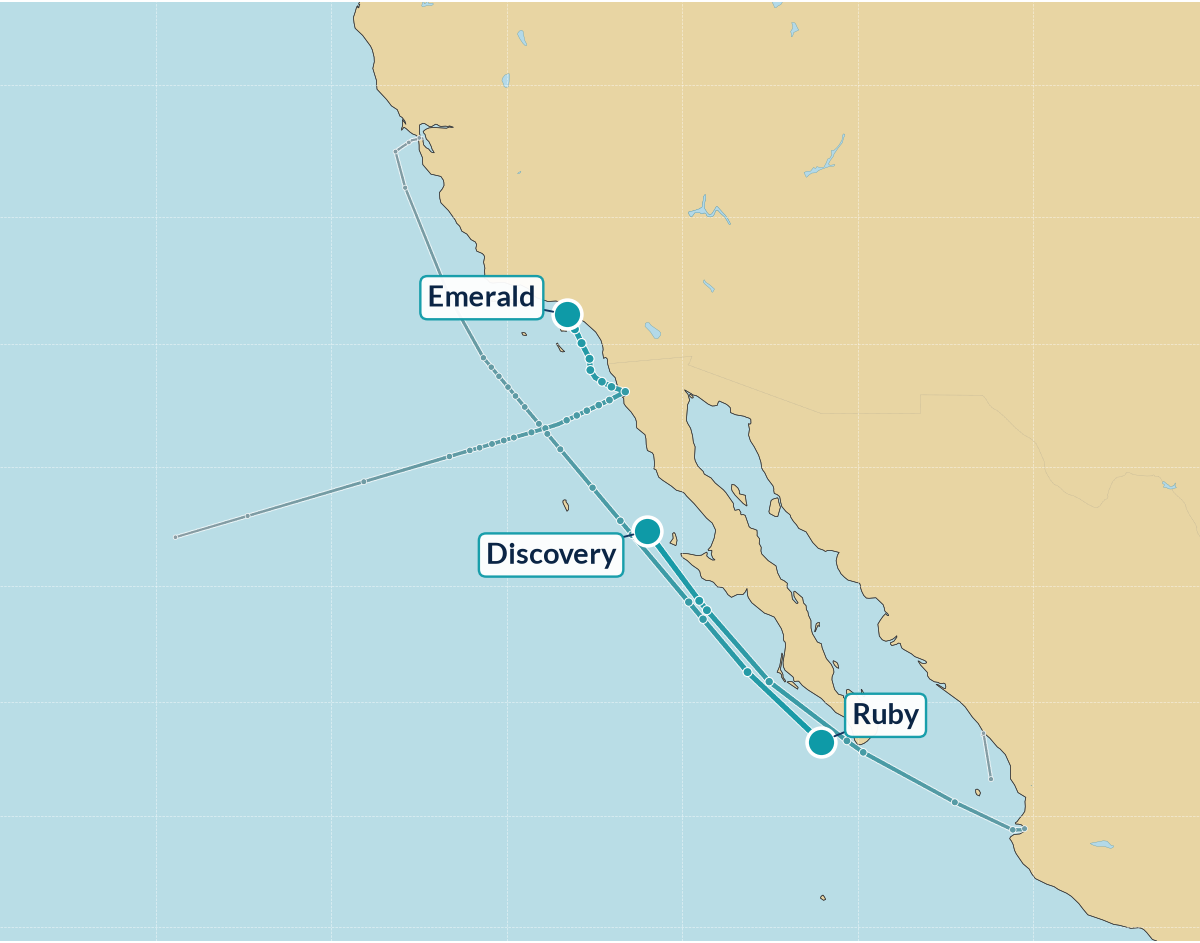
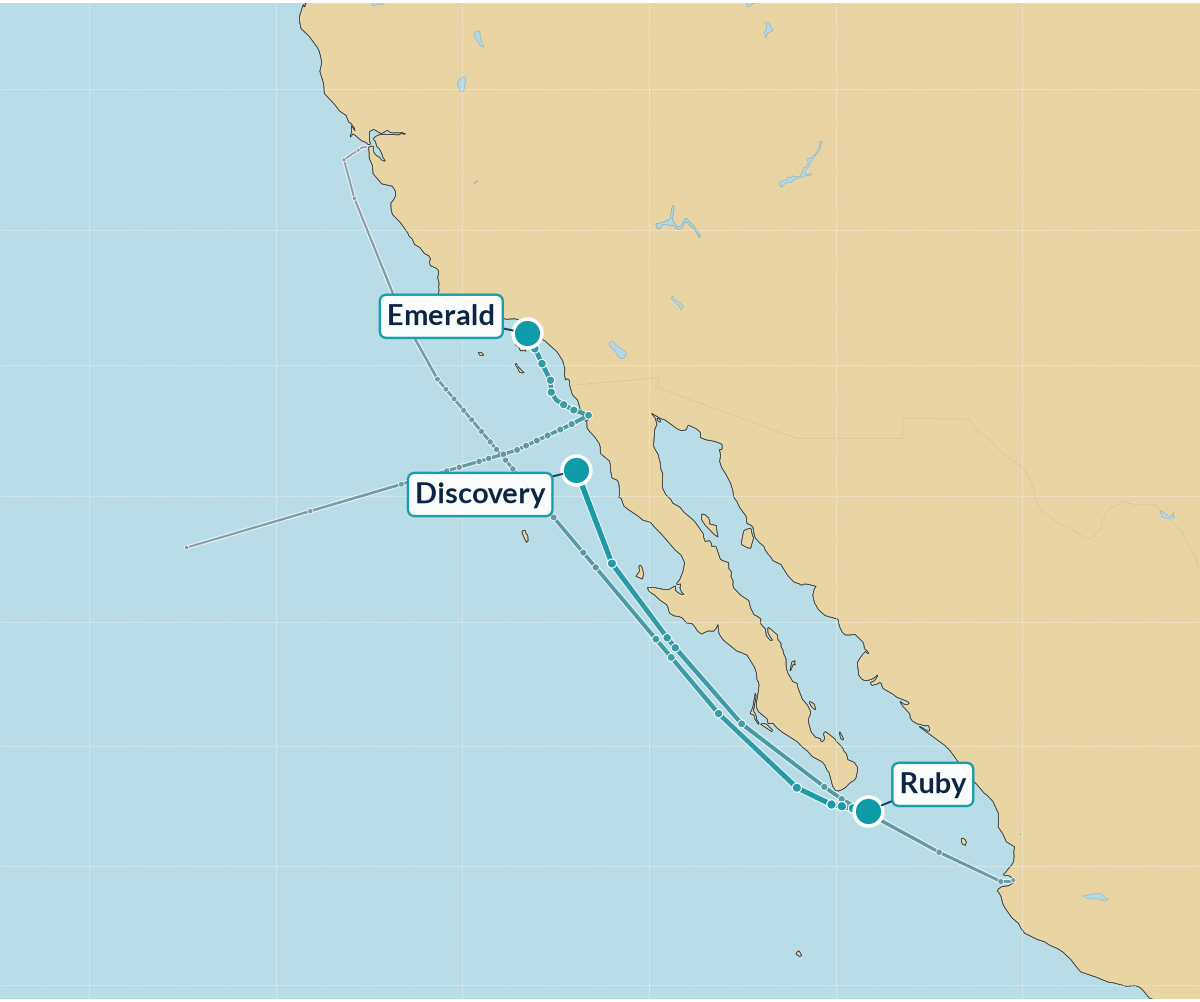
Update 10/16 17:01 PT

diff --git a/index.html b/index.html
@@ -1,47 +1,47 @@
 <!DOCTYPE html><html lang="en"><head><meta charset="utf-8"><meta name="viewport" content="width=device-width, initial-scale=1"><meta http-equiv="refresh" content="1800"><meta name="description" content="Live Princess Cruises fleet tracker"><title>Princess Patter — Friday, October 16, 2026</title></head>
 <body style="margin:0;padding:0;background-color:#dee2e8;">
-<div style="display:none;max-height:0;overflow:hidden;opacity:0;color:#dee2e8;font-size:1px;line-height:1px;">Friday, October 16, 2026 — 8:00am PT | 17 ships | 10 at sea, 7 in port</div>
+<div style="display:none;max-height:0;overflow:hidden;opacity:0;color:#dee2e8;font-size:1px;line-height:1px;">Friday, October 16, 2026 — 4:00pm PT | 17 ships | 14 at sea, 3 in port</div>
 <table role="presentation" width="100%" cellpadding="0" cellspacing="0" border="0" bgcolor="#dee2e8" style="background-color:#dee2e8;border-collapse:collapse;"><tr><td align="center" style="padding:16px 8px;">
 <table role="presentation" width="100%" cellpadding="0" cellspacing="0" border="0" bgcolor="#fdfdfb" style="width:100%;max-width:900px;background-color:#fdfdfb;border-collapse:collapse;border:1px solid #d6dae0;">
 <tr><td bgcolor="#1d3a6b" align="left" style="background-color:#1d3a6b;padding:24px 28px 24px 28px;"><div style="font-family:Georgia, 'Times New Roman', Times, serif;font-size:40px;line-height:46px;color:#ffffff;letter-spacing:0.5px;"><span style="color:#a8b6e2;">≋</span>&nbsp;Princess Patter</div></td></tr>
-<tr><td style="padding:0;"><table role="presentation" width="100%" cellpadding="0" cellspacing="0" border="0" style="border-collapse:collapse;"><tr><td height="5" bgcolor="#6a5aa8" style="background-color:#6a5aa8;height:5px;font-size:0;line-height:0;width:60%;">&nbsp;</td><td height="5" bgcolor="#2f6db5" style="background-color:#2f6db5;height:5px;font-size:0;line-height:0;width:40%;">&nbsp;</td></tr></table></td></tr><tr><td bgcolor="#1d3a6b" style="background:linear-gradient(#1d3a6b,#2f6db5);padding:10px 16px 14px;text-align:center;"><img src="regal.png?v=202610161601" alt="Regal Princess" style="width:100%;max-width:640px;height:auto;display:block;margin:0 auto;"></td></tr>
+<tr><td style="padding:0;"><table role="presentation" width="100%" cellpadding="0" cellspacing="0" border="0" style="border-collapse:collapse;"><tr><td height="5" bgcolor="#6a5aa8" style="background-color:#6a5aa8;height:5px;font-size:0;line-height:0;width:60%;">&nbsp;</td><td height="5" bgcolor="#2f6db5" style="background-color:#2f6db5;height:5px;font-size:0;line-height:0;width:40%;">&nbsp;</td></tr></table></td></tr><tr><td bgcolor="#1d3a6b" style="background:linear-gradient(#1d3a6b,#2f6db5);padding:10px 16px 14px;text-align:center;"><img src="regal.png?v=202610161701" alt="Regal Princess" style="width:100%;max-width:640px;height:auto;display:block;margin:0 auto;"></td></tr>
 <tr><td style="padding:22px 20px 6px 20px;">
-<div style="font-family:Georgia, 'Times New Roman', Times, serif;font-style:italic;font-size:20px;line-height:26px;color:#2f6db5;">Good morning!</div>
+<div style="font-family:Georgia, 'Times New Roman', Times, serif;font-style:italic;font-size:20px;line-height:26px;color:#2f6db5;">Good afternoon!</div>
 <div style="font-family:Georgia, 'Times New Roman', Times, serif;font-weight:bold;font-size:26px;line-height:32px;color:#1d3a6b;padding-top:6px;">Friday, October 16, 2026</div>
-<div style="font-family:Helvetica, Arial, sans-serif;font-size:16px;line-height:22px;color:#2f6db5;padding-top:4px;">8:00am PT | 17 ships | 10 at sea, 7 in port</div>
-</td></tr><tr><td style="padding:14px 20px 0 20px;"><div style="font-family:Georgia, 'Times New Roman', Times, serif;font-style:italic;font-weight:bold;font-size:18px;color:#295aa0;padding:0 4px 4px;border-bottom:1px solid #295aa0;">pacific map</div><a href="map.png?v=202610161601"><img src="map.png?v=202610161601" alt="Pacific fleet map" style="width:100%;height:auto;display:block;margin-top:8px;border-radius:12px;border:2px solid #c8dee2;"></a></td></tr>
+<div style="font-family:Helvetica, Arial, sans-serif;font-size:16px;line-height:22px;color:#2f6db5;padding-top:4px;">4:00pm PT | 17 ships | 14 at sea, 3 in port</div>
+</td></tr><tr><td style="padding:14px 20px 0 20px;"><div style="font-family:Georgia, 'Times New Roman', Times, serif;font-style:italic;font-weight:bold;font-size:18px;color:#295aa0;padding:0 4px 4px;border-bottom:1px solid #295aa0;">pacific map</div><a href="map.png?v=202610161701"><img src="map.png?v=202610161701" alt="Pacific fleet map" style="width:100%;height:auto;display:block;margin-top:8px;border-radius:12px;border:2px solid #c8dee2;"></a></td></tr>
 <tr><td style="padding:14px 20px 4px 20px;">
 <table role="presentation" width="100%" cellpadding="0" cellspacing="0" border="0" style="border-collapse:collapse;width:100%;font-family:Helvetica, Arial, sans-serif;font-size:15px;line-height:20px;color:#262c38;">
 <tr bgcolor="#2f6db5" style="background-color:#2f6db5;"><td style="font-size:14px;line-height:18px;font-weight:bold;color:#ffffff;text-align:left;padding:9px 8px;padding-left:10px;" colspan="2">Ship</td><td style="font-size:14px;line-height:18px;font-weight:bold;color:#ffffff;text-align:left;padding:9px 8px;">Where</td><td style="font-size:14px;line-height:18px;font-weight:bold;color:#ffffff;text-align:left;padding:9px 8px;">Next Port</td></tr>
 <tr><td colspan="4" style="padding:14px 4px 4px 4px;border-bottom:1px solid #295aa0;font-family:Georgia, 'Times New Roman', Times, serif;font-style:italic;font-weight:bold;font-size:18px;line-height:22px;color:#295aa0;">canada &amp; new england</td></tr>
-<tr bgcolor="#eef0f3" style="background-color:#eef0f3;"><td width="18" style="padding:7px 0 7px 8px;vertical-align:top;width:18px;color:#1a9a9a;font-size:18px;">&nbsp;</td><td style="padding:7px 8px;vertical-align:top;"><b style="color:#1d3a6b;">Majestic</b></td><td style="padding:7px 8px;vertical-align:top;">At Sea <span style="white-space:nowrap;font-size:12px;color:#707884;" title="Forecast high/low">☁&thinsp;63°</span> <span style="font-size:12px;color:#707884;"><span style="white-space:nowrap;">🌊 7 ft</span> &middot; <span style="white-space:nowrap;">💨 SSW 23 kt</span> &middot; <span style="white-space:nowrap;">🚢 16.1 kn</span></span></td><td style="padding:7px 8px;vertical-align:top;">New York <span style="white-space:nowrap;font-size:12px;color:#707884;" title="Forecast high/low">☁&thinsp;60°/36°</span> <span style="font-size:13px;color:#707884;">(10/17 4am)</span></td></tr>
-<tr bgcolor="#ffffff" style="background-color:#ffffff;"><td width="18" style="padding:7px 0 7px 8px;vertical-align:top;width:18px;color:#1a9a9a;font-size:18px;">&nbsp;</td><td style="padding:7px 8px;vertical-align:top;"><b style="color:#1d3a6b;">Sapphire</b></td><td style="padding:7px 8px;vertical-align:top;">At Sea <span style="white-space:nowrap;font-size:12px;color:#707884;" title="Forecast high/low">🌫&thinsp;57°</span> <span style="font-size:12px;color:#707884;"><span style="white-space:nowrap;">🌊 7 ft</span> &middot; <span style="white-space:nowrap;">💨 SW 23 kt</span> &middot; <span style="white-space:nowrap;">🚢 10.2 kn</span></span></td><td style="padding:7px 8px;vertical-align:top;">Halifax <span style="white-space:nowrap;font-size:12px;color:#707884;" title="Forecast high/low">🌦&thinsp;61°/36°</span> <span style="font-size:13px;color:#707884;">(10/17 3am)</span></td></tr>
+<tr bgcolor="#eef0f3" style="background-color:#eef0f3;"><td width="18" style="padding:7px 0 7px 8px;vertical-align:top;width:18px;color:#1a9a9a;font-size:18px;">&nbsp;</td><td style="padding:7px 8px;vertical-align:top;"><b style="color:#1d3a6b;">Majestic</b></td><td style="padding:7px 8px;vertical-align:top;">At Sea <span style="white-space:nowrap;font-size:12px;color:#707884;" title="Forecast high/low">☁&thinsp;67°</span> <span style="font-size:12px;color:#707884;"><span style="white-space:nowrap;">🌊 6 ft</span> &middot; <span style="white-space:nowrap;">💨 SW 22 kt</span> &middot; <span style="white-space:nowrap;">🚢 15.6 kn</span></span></td><td style="padding:7px 8px;vertical-align:top;">New York <span style="white-space:nowrap;font-size:12px;color:#707884;" title="Forecast high/low">☁&thinsp;60°/36°</span> <span style="font-size:13px;color:#707884;">(10/17 4am)</span></td></tr>
+<tr bgcolor="#ffffff" style="background-color:#ffffff;"><td width="18" style="padding:7px 0 7px 8px;vertical-align:top;width:18px;color:#1a9a9a;font-size:18px;">&nbsp;</td><td style="padding:7px 8px;vertical-align:top;"><b style="color:#1d3a6b;">Sapphire</b></td><td style="padding:7px 8px;vertical-align:top;">At Sea <span style="white-space:nowrap;font-size:12px;color:#707884;" title="Forecast high/low">🌧&thinsp;58°</span> <span style="font-size:12px;color:#707884;"><span style="white-space:nowrap;">🌊 6 ft</span> &middot; <span style="white-space:nowrap;">💨 SSW 27 kt</span> &middot; <span style="white-space:nowrap;">🚢 10.2 kn</span></span></td><td style="padding:7px 8px;vertical-align:top;">Halifax <span style="white-space:nowrap;font-size:12px;color:#707884;" title="Forecast high/low">🌦&thinsp;61°/36°</span> <span style="font-size:13px;color:#707884;">(10/17 3am)</span></td></tr>
 <tr><td colspan="4" style="padding:14px 4px 4px 4px;border-bottom:1px solid #295aa0;font-family:Georgia, 'Times New Roman', Times, serif;font-style:italic;font-weight:bold;font-size:18px;line-height:22px;color:#295aa0;">caribbean</td></tr>
-<tr bgcolor="#eef0f3" style="background-color:#eef0f3;"><td width="18" style="padding:7px 0 7px 8px;vertical-align:top;width:18px;color:#1a9a9a;font-size:18px;">&nbsp;</td><td style="padding:7px 8px;vertical-align:top;"><b style="color:#1d3a6b;">Caribbean</b></td><td style="padding:7px 8px;vertical-align:top;">Grand Turk <span style="white-space:nowrap;font-size:12px;color:#707884;" title="Forecast high/low">🌙&thinsp;85°</span> <span style="font-size:13px;color:#707884;">(1pm)</span></td><td style="padding:7px 8px;vertical-align:top;">Port Canaveral <span style="white-space:nowrap;font-size:12px;color:#707884;" title="Forecast high/low">🌦&thinsp;79°/70°</span> <span style="font-size:13px;color:#707884;">(10/18 4am)</span></td></tr>
-<tr bgcolor="#ffffff" style="background-color:#ffffff;"><td width="18" style="padding:7px 0 7px 8px;vertical-align:top;width:18px;color:#1a9a9a;font-size:18px;">&nbsp;</td><td style="padding:7px 8px;vertical-align:top;"><b style="color:#1d3a6b;">Coral</b></td><td style="padding:7px 8px;vertical-align:top;">At Sea <span style="white-space:nowrap;font-size:12px;color:#707884;" title="Forecast high/low">🌙&thinsp;85°</span> <span style="font-size:12px;color:#707884;"><span style="white-space:nowrap;">🌊 4 ft</span> &middot; <span style="white-space:nowrap;">💨 SE 11 kt</span> &middot; <span style="white-space:nowrap;">🚢 16.7 kn</span></span></td><td style="padding:7px 8px;vertical-align:top;">Philipsburg <span style="white-space:nowrap;font-size:12px;color:#707884;" title="Forecast high/low">🌦&thinsp;84°/83°</span> <span style="font-size:13px;color:#707884;">(10/18 6am)</span></td></tr>
-<tr bgcolor="#eef0f3" style="background-color:#eef0f3;"><td width="18" style="padding:7px 0 7px 8px;vertical-align:top;width:18px;color:#1a9a9a;font-size:18px;">&nbsp;</td><td style="padding:7px 8px;vertical-align:top;"><b style="color:#1d3a6b;">Regal</b></td><td style="padding:7px 8px;vertical-align:top;">Nassau <span style="white-space:nowrap;font-size:12px;color:#707884;" title="Forecast high/low">🌙&thinsp;83°</span> <span style="font-size:13px;color:#707884;">(1pm)</span></td><td style="padding:7px 8px;vertical-align:top;">Fort Lauderdale <span style="white-space:nowrap;font-size:12px;color:#707884;" title="Forecast high/low">🌧&thinsp;88°/71°</span> <span style="font-size:13px;color:#707884;">(10/17 3am)</span></td></tr>
-<tr bgcolor="#ffffff" style="background-color:#ffffff;"><td width="18" style="padding:7px 0 7px 8px;vertical-align:top;width:18px;color:#1a9a9a;font-size:18px;">&nbsp;</td><td style="padding:7px 8px;vertical-align:top;"><b style="color:#1d3a6b;">Star</b></td><td style="padding:7px 8px;vertical-align:top;">At Sea <span style="white-space:nowrap;font-size:12px;color:#707884;" title="Forecast high/low">🌙&thinsp;84°</span> <span style="font-size:12px;color:#707884;"><span style="white-space:nowrap;">🌊 6 ft</span> &middot; <span style="white-space:nowrap;">💨 NE 19 kt</span> &middot; <span style="white-space:nowrap;">🚢 17.9 kn</span></span></td><td style="padding:7px 8px;vertical-align:top;">Oranjestad <span style="white-space:nowrap;font-size:12px;color:#707884;" title="Forecast high/low">🌦&thinsp;90°/82°</span> <span style="font-size:13px;color:#707884;">(10/17 4am)</span></td></tr>
+<tr bgcolor="#eef0f3" style="background-color:#eef0f3;"><td width="18" style="padding:7px 0 7px 8px;vertical-align:top;width:18px;color:#1a9a9a;font-size:18px;">&nbsp;</td><td style="padding:7px 8px;vertical-align:top;"><b style="color:#1d3a6b;">Caribbean</b></td><td style="padding:7px 8px;vertical-align:top;">At Sea <span style="white-space:nowrap;font-size:12px;color:#707884;" title="Forecast high/low">🌙&thinsp;85°</span> <span style="font-size:12px;color:#707884;"><span style="white-space:nowrap;">🌊 3 ft</span> &middot; <span style="white-space:nowrap;">💨 E 14 kt</span></span></td><td style="padding:7px 8px;vertical-align:top;">Port Canaveral <span style="white-space:nowrap;font-size:12px;color:#707884;" title="Forecast high/low">🌦&thinsp;79°/70°</span> <span style="font-size:13px;color:#707884;">(10/18 4am)</span></td></tr>
+<tr bgcolor="#ffffff" style="background-color:#ffffff;"><td width="18" style="padding:7px 0 7px 8px;vertical-align:top;width:18px;color:#1a9a9a;font-size:18px;">&nbsp;</td><td style="padding:7px 8px;vertical-align:top;"><b style="color:#1d3a6b;">Coral</b></td><td style="padding:7px 8px;vertical-align:top;">At Sea <span style="white-space:nowrap;font-size:12px;color:#707884;" title="Forecast high/low">🌙&thinsp;85°</span> <span style="font-size:12px;color:#707884;"><span style="white-space:nowrap;">🌊 4 ft</span> &middot; <span style="white-space:nowrap;">💨 ESE 11 kt</span> &middot; <span style="white-space:nowrap;">🚢 16.8 kn</span></span></td><td style="padding:7px 8px;vertical-align:top;">Philipsburg <span style="white-space:nowrap;font-size:12px;color:#707884;" title="Forecast high/low">🌦&thinsp;84°/83°</span> <span style="font-size:13px;color:#707884;">(10/18 6am)</span></td></tr>
+<tr bgcolor="#eef0f3" style="background-color:#eef0f3;"><td width="18" style="padding:7px 0 7px 8px;vertical-align:top;width:18px;color:#1a9a9a;font-size:18px;">&nbsp;</td><td style="padding:7px 8px;vertical-align:top;"><b style="color:#1d3a6b;">Regal</b></td><td style="padding:7px 8px;vertical-align:top;">At Sea <span style="white-space:nowrap;font-size:12px;color:#707884;" title="Forecast high/low">🌙&thinsp;85°</span> <span style="font-size:12px;color:#707884;"><span style="white-space:nowrap;">🌊 2 ft</span> &middot; <span style="white-space:nowrap;">💨 ENE 8 kt</span> &middot; <span style="white-space:nowrap;">🚢 14.4 kn</span></span></td><td style="padding:7px 8px;vertical-align:top;">Fort Lauderdale <span style="white-space:nowrap;font-size:12px;color:#707884;" title="Forecast high/low">🌧&thinsp;88°/71°</span> <span style="font-size:13px;color:#707884;">(10/17 3am)</span></td></tr>
+<tr bgcolor="#ffffff" style="background-color:#ffffff;"><td width="18" style="padding:7px 0 7px 8px;vertical-align:top;width:18px;color:#1a9a9a;font-size:18px;">&nbsp;</td><td style="padding:7px 8px;vertical-align:top;"><b style="color:#1d3a6b;">Star</b></td><td style="padding:7px 8px;vertical-align:top;">At Sea <span style="white-space:nowrap;font-size:12px;color:#707884;" title="Forecast high/low">☁&thinsp;84°</span> <span style="font-size:12px;color:#707884;"><span style="white-space:nowrap;">🌊 6 ft</span> &middot; <span style="white-space:nowrap;">💨 ENE 20 kt</span> &middot; <span style="white-space:nowrap;">🚢 17.4 kn</span></span></td><td style="padding:7px 8px;vertical-align:top;">Oranjestad <span style="white-space:nowrap;font-size:12px;color:#707884;" title="Forecast high/low">🌦&thinsp;90°/82°</span> <span style="font-size:13px;color:#707884;">(10/17 4am)</span></td></tr>
 <tr><td colspan="4" style="padding:14px 4px 4px 4px;border-bottom:1px solid #295aa0;font-family:Georgia, 'Times New Roman', Times, serif;font-style:italic;font-weight:bold;font-size:18px;line-height:22px;color:#295aa0;">hawaii</td></tr>
 <tr bgcolor="#eef0f3" style="background-color:#eef0f3;"><td width="18" style="padding:7px 0 7px 8px;vertical-align:top;width:18px;color:#1a9a9a;font-size:18px;">&nbsp;</td><td style="padding:7px 8px;vertical-align:top;"><b style="color:#1d3a6b;">Emerald</b></td><td style="padding:7px 8px;vertical-align:top;">Los Angeles <span style="white-space:nowrap;font-size:12px;color:#707884;" title="Forecast high/low">☀&thinsp;96°</span> <span style="font-size:13px;color:#707884;">(5pm)</span></td><td style="padding:7px 8px;vertical-align:top;">Hilo <span style="white-space:nowrap;font-size:12px;color:#707884;" title="Forecast high/low">🌦&thinsp;79°/63°</span> <span style="font-size:13px;color:#707884;">(10/22 11am)</span></td></tr>
 <tr><td colspan="4" style="padding:14px 4px 4px 4px;border-bottom:1px solid #295aa0;font-family:Georgia, 'Times New Roman', Times, serif;font-style:italic;font-weight:bold;font-size:18px;line-height:22px;color:#295aa0;">mexican riviera</td></tr>
-<tr bgcolor="#eef0f3" style="background-color:#eef0f3;"><td width="18" style="padding:7px 0 7px 8px;vertical-align:top;width:18px;color:#1a9a9a;font-size:18px;">&nbsp;</td><td style="padding:7px 8px;vertical-align:top;"><b style="color:#1d3a6b;">Discovery</b></td><td style="padding:7px 8px;vertical-align:top;">At Sea <span style="white-space:nowrap;font-size:12px;color:#707884;" title="Forecast high/low">☀&thinsp;76°</span> <span style="font-size:12px;color:#707884;"><span style="white-space:nowrap;">🌊 5 ft</span> &middot; <span style="white-space:nowrap;">💨 NNW 8 kt</span> &middot; <span style="white-space:nowrap;">🚢 17.3 kn</span></span></td><td style="padding:7px 8px;vertical-align:top;">Los Angeles <span style="white-space:nowrap;font-size:12px;color:#707884;" title="Forecast high/low">☁&thinsp;94°/68°</span> <span style="font-size:13px;color:#707884;">(10/17 6:15am)</span></td></tr>
-<tr bgcolor="#ffffff" style="background-color:#ffffff;"><td width="18" style="padding:7px 0 7px 8px;vertical-align:top;width:18px;color:#1a9a9a;font-size:18px;">&nbsp;</td><td style="padding:7px 8px;vertical-align:top;"><b style="color:#1d3a6b;">Ruby</b></td><td style="padding:7px 8px;vertical-align:top;">At Sea <span style="white-space:nowrap;font-size:12px;color:#707884;" title="Forecast high/low">⛅&thinsp;84°</span> <span style="font-size:12px;color:#707884;"><span style="white-space:nowrap;">🌊 5 ft</span> &middot; <span style="white-space:nowrap;">💨 SW 2 kt</span> &middot; <span style="white-space:nowrap;">🚢 17.9 kn</span></span></td><td style="padding:7px 8px;vertical-align:top;">Puerto Vallarta <span style="white-space:nowrap;font-size:12px;color:#707884;" title="Forecast high/low">🌦&thinsp;89°/78°</span> <span style="font-size:13px;color:#707884;">(10/17 7am)</span></td></tr>
+<tr bgcolor="#eef0f3" style="background-color:#eef0f3;"><td width="18" style="padding:7px 0 7px 8px;vertical-align:top;width:18px;color:#1a9a9a;font-size:18px;">&nbsp;</td><td style="padding:7px 8px;vertical-align:top;"><b style="color:#1d3a6b;">Discovery</b></td><td style="padding:7px 8px;vertical-align:top;">At Sea <span style="white-space:nowrap;font-size:12px;color:#707884;" title="Forecast high/low">☀&thinsp;73°</span> <span style="font-size:12px;color:#707884;"><span style="white-space:nowrap;">🌊 4 ft</span> &middot; <span style="white-space:nowrap;">💨 WNW 5 kt</span> &middot; <span style="white-space:nowrap;">🚢 15.9 kn</span></span></td><td style="padding:7px 8px;vertical-align:top;">Los Angeles <span style="white-space:nowrap;font-size:12px;color:#707884;" title="Forecast high/low">☁&thinsp;94°/68°</span> <span style="font-size:13px;color:#707884;">(10/17 6:15am)</span></td></tr>
+<tr bgcolor="#ffffff" style="background-color:#ffffff;"><td width="18" style="padding:7px 0 7px 8px;vertical-align:top;width:18px;color:#1a9a9a;font-size:18px;">&nbsp;</td><td style="padding:7px 8px;vertical-align:top;"><b style="color:#1d3a6b;">Ruby</b></td><td style="padding:7px 8px;vertical-align:top;">At Sea <span style="white-space:nowrap;font-size:12px;color:#707884;" title="Forecast high/low">☁&thinsp;84°</span> <span style="font-size:12px;color:#707884;"><span style="white-space:nowrap;">🌊 6 ft</span> &middot; <span style="white-space:nowrap;">💨 S 8 kt</span> &middot; <span style="white-space:nowrap;">🚢 17.0 kn</span></span></td><td style="padding:7px 8px;vertical-align:top;">Puerto Vallarta <span style="white-space:nowrap;font-size:12px;color:#707884;" title="Forecast high/low">🌦&thinsp;89°/78°</span> <span style="font-size:13px;color:#707884;">(10/17 7am)</span></td></tr>
 <tr><td colspan="4" style="padding:14px 4px 4px 4px;border-bottom:1px solid #295aa0;font-family:Georgia, 'Times New Roman', Times, serif;font-style:italic;font-weight:bold;font-size:18px;line-height:22px;color:#295aa0;">asia</td></tr>
-<tr bgcolor="#eef0f3" style="background-color:#eef0f3;"><td width="18" style="padding:7px 0 7px 8px;vertical-align:top;width:18px;color:#1a9a9a;font-size:18px;">&nbsp;</td><td style="padding:7px 8px;vertical-align:top;"><b style="color:#1d3a6b;">Diamond</b></td><td style="padding:7px 8px;vertical-align:top;">At Sea <span style="white-space:nowrap;font-size:12px;color:#707884;" title="Forecast high/low">☀&thinsp;73°</span> <span style="font-size:12px;color:#707884;"><span style="white-space:nowrap;">🌊 3 ft</span> &middot; <span style="white-space:nowrap;">💨 ENE 20 kt</span> &middot; <span style="white-space:nowrap;">🚢 11.8 kn</span></span></td><td style="padding:7px 8px;vertical-align:top;">Nagasaki <span style="white-space:nowrap;font-size:12px;color:#707884;" title="Forecast high/low">☀&thinsp;81°/66°</span> <span style="font-size:13px;color:#707884;">(3pm)</span></td></tr>
+<tr bgcolor="#eef0f3" style="background-color:#eef0f3;"><td width="18" style="padding:7px 0 7px 8px;vertical-align:top;width:18px;color:#1a9a9a;font-size:18px;">&nbsp;</td><td style="padding:7px 8px;vertical-align:top;"><b style="color:#1d3a6b;">Diamond</b></td><td style="padding:7px 8px;vertical-align:top;">Nagasaki <span style="white-space:nowrap;font-size:12px;color:#707884;" title="Forecast high/low">☀&thinsp;68°</span> <span style="font-size:13px;color:#707884;">(10/17 12am)</span></td><td style="padding:7px 8px;vertical-align:top;">Yokohama <span style="white-space:nowrap;font-size:12px;color:#707884;" title="Forecast high/low">☀&thinsp;71°/56°</span> <span style="font-size:13px;color:#707884;">(10/18 2:30pm)</span></td></tr>
 <tr bgcolor="#f6e7b0" style="background-color:#f6e7b0;"><td width="18" style="border-left:4px solid #be8c14;padding:7px 0 7px 8px;vertical-align:top;width:18px;color:#1a9a9a;font-size:18px;">&nbsp;</td><td style="padding:7px 8px;vertical-align:top;"><b style="color:#1d3a6b;">Royal</b></td><td style="padding:7px 8px;vertical-align:top;"><span style="color:#d6a214;" title="Maiden call">&#9733;</span>&nbsp;Singapore <span style="font-size:13px;color:#707884;">(Drydock)</span> <span style="display:inline-block;font-size:10px;line-height:14px;font-weight:bold;letter-spacing:0.4px;color:#966c00;background-color:#fcf3d6;border:1px solid #d6a214;border-radius:8px;padding:0 5px;white-space:nowrap;">MAIDEN CALL</span></td><td style="padding:7px 8px;vertical-align:top;">Drydock <span style="font-size:13px;color:#707884;">(to 11/1)</span></td></tr>
 <tr><td colspan="4" style="padding:14px 4px 4px 4px;border-bottom:1px solid #295aa0;font-family:Georgia, 'Times New Roman', Times, serif;font-style:italic;font-weight:bold;font-size:18px;line-height:22px;color:#295aa0;">australia &amp; new zealand</td></tr>
-<tr bgcolor="#eef0f3" style="background-color:#eef0f3;"><td width="18" style="padding:7px 0 7px 8px;vertical-align:top;width:18px;color:#1a9a9a;font-size:18px;">&nbsp;</td><td style="padding:7px 8px;vertical-align:top;"><b style="color:#1d3a6b;">Crown</b></td><td style="padding:7px 8px;vertical-align:top;">At Sea <span style="white-space:nowrap;font-size:12px;color:#707884;" title="Forecast high/low">🌦&thinsp;63°</span> <span style="font-size:12px;color:#707884;"><span style="white-space:nowrap;">🌊 10 ft</span> &middot; <span style="white-space:nowrap;">💨 WNW 14 kt</span> &middot; <span style="white-space:nowrap;">🚢 17.7 kn</span></span></td><td style="padding:7px 8px;vertical-align:top;">Busselton <span style="white-space:nowrap;font-size:12px;color:#707884;" title="Forecast high/low">🌦&thinsp;68°/58°</span> <span style="font-size:13px;color:#707884;">(6pm)</span></td></tr>
+<tr bgcolor="#eef0f3" style="background-color:#eef0f3;"><td width="18" style="padding:7px 0 7px 8px;vertical-align:top;width:18px;color:#1a9a9a;font-size:18px;">&nbsp;</td><td style="padding:7px 8px;vertical-align:top;"><b style="color:#1d3a6b;">Crown</b></td><td style="padding:7px 8px;vertical-align:top;">At Sea <span style="white-space:nowrap;font-size:12px;color:#707884;" title="Forecast high/low">☀&thinsp;65°</span> <span style="font-size:12px;color:#707884;"><span style="white-space:nowrap;">🌊 9 ft</span> &middot; <span style="white-space:nowrap;">💨 NW 11 kt</span> &middot; <span style="white-space:nowrap;">🚢 13.5 kn</span></span></td><td style="padding:7px 8px;vertical-align:top;">Busselton <span style="white-space:nowrap;font-size:12px;color:#707884;" title="Forecast high/low">🌦&thinsp;68°/58°</span> <span style="font-size:13px;color:#707884;">(6pm)</span></td></tr>
 <tr><td colspan="4" style="padding:14px 4px 4px 4px;border-bottom:1px solid #295aa0;font-family:Georgia, 'Times New Roman', Times, serif;font-style:italic;font-weight:bold;font-size:18px;line-height:22px;color:#295aa0;">mediterranean</td></tr>
-<tr bgcolor="#eef0f3" style="background-color:#eef0f3;"><td width="18" style="padding:7px 0 7px 8px;vertical-align:top;width:18px;color:#1a9a9a;font-size:18px;">&nbsp;</td><td style="padding:7px 8px;vertical-align:top;"><b style="color:#1d3a6b;">Enchanted</b></td><td style="padding:7px 8px;vertical-align:top;">Santorini <span style="white-space:nowrap;font-size:12px;color:#707884;" title="Forecast high/low">🌧&thinsp;60°</span> <span style="font-size:13px;color:#707884;">(10am)</span></td><td style="padding:7px 8px;vertical-align:top;">Kusadasi <span style="white-space:nowrap;font-size:12px;color:#707884;" title="Forecast high/low">🌧&thinsp;60°/55°</span> <span style="font-size:13px;color:#707884;">(10/16 9pm)</span></td></tr>
-<tr bgcolor="#ffffff" style="background-color:#ffffff;"><td width="18" style="padding:7px 0 7px 8px;vertical-align:top;width:18px;color:#1a9a9a;font-size:18px;">&nbsp;</td><td style="padding:7px 8px;vertical-align:top;"><b style="color:#1d3a6b;">Island</b></td><td style="padding:7px 8px;vertical-align:top;">At Sea <span style="white-space:nowrap;font-size:12px;color:#707884;" title="Forecast high/low">☁&thinsp;70°</span> <span style="font-size:12px;color:#707884;"><span style="white-space:nowrap;">🌊 7 ft</span> &middot; <span style="white-space:nowrap;">💨 NNE 18 kt</span> &middot; <span style="white-space:nowrap;">🚢 14.8 kn</span></span></td><td style="padding:7px 8px;vertical-align:top;">Cadiz <span style="white-space:nowrap;font-size:12px;color:#707884;" title="Forecast high/low">☁&thinsp;74°/68°</span> <span style="font-size:13px;color:#707884;">(10/16 11pm)</span></td></tr>
-<tr bgcolor="#eef0f3" style="background-color:#eef0f3;"><td width="18" style="padding:7px 0 7px 8px;vertical-align:top;width:18px;color:#1a9a9a;font-size:18px;">&nbsp;</td><td style="padding:7px 8px;vertical-align:top;"><b style="color:#1d3a6b;">Sun</b></td><td style="padding:7px 8px;vertical-align:top;">La Spezia <span style="white-space:nowrap;font-size:12px;color:#707884;" title="Forecast high/low">☁&thinsp;65°</span> <span style="font-size:13px;color:#707884;">(10am)</span></td><td style="padding:7px 8px;vertical-align:top;">Civitavecchia <span style="white-space:nowrap;font-size:12px;color:#707884;" title="Forecast high/low">☁&thinsp;73°/62°</span> <span style="font-size:13px;color:#707884;">(10/16 9pm)</span></td></tr>
+<tr bgcolor="#eef0f3" style="background-color:#eef0f3;"><td width="18" style="padding:7px 0 7px 8px;vertical-align:top;width:18px;color:#1a9a9a;font-size:18px;">&nbsp;</td><td style="padding:7px 8px;vertical-align:top;"><b style="color:#1d3a6b;">Enchanted</b></td><td style="padding:7px 8px;vertical-align:top;">At Sea <span style="white-space:nowrap;font-size:12px;color:#707884;" title="Forecast high/low">☁&thinsp;59°</span> <span style="font-size:12px;color:#707884;"><span style="white-space:nowrap;">🌊 2 ft</span> &middot; <span style="white-space:nowrap;">💨 N 5 kt</span> &middot; <span style="white-space:nowrap;">🚢 13.9 kn</span></span></td><td style="padding:7px 8px;vertical-align:top;">Kusadasi <span style="white-space:nowrap;font-size:12px;color:#707884;" title="Forecast high/low">🌧&thinsp;60°/55°</span> <span style="font-size:13px;color:#707884;">(10/16 9pm)</span></td></tr>
+<tr bgcolor="#ffffff" style="background-color:#ffffff;"><td width="18" style="padding:7px 0 7px 8px;vertical-align:top;width:18px;color:#1a9a9a;font-size:18px;">&nbsp;</td><td style="padding:7px 8px;vertical-align:top;"><b style="color:#1d3a6b;">Island</b></td><td style="padding:7px 8px;vertical-align:top;">At Sea <span style="white-space:nowrap;font-size:12px;color:#707884;" title="Forecast high/low">🌙&thinsp;74°</span> <span style="font-size:12px;color:#707884;"><span style="white-space:nowrap;">🌊 4 ft</span> &middot; <span style="white-space:nowrap;">💨 WNW 6 kt</span> &middot; <span style="white-space:nowrap;">🚢 14.8 kn</span></span></td><td style="padding:7px 8px;vertical-align:top;">Cadiz <span style="white-space:nowrap;font-size:12px;color:#707884;" title="Forecast high/low">☁&thinsp;74°/68°</span> <span style="font-size:13px;color:#707884;">(10/16 11pm)</span></td></tr>
+<tr bgcolor="#eef0f3" style="background-color:#eef0f3;"><td width="18" style="padding:7px 0 7px 8px;vertical-align:top;width:18px;color:#1a9a9a;font-size:18px;">&nbsp;</td><td style="padding:7px 8px;vertical-align:top;"><b style="color:#1d3a6b;">Sun</b></td><td style="padding:7px 8px;vertical-align:top;">At Sea <span style="white-space:nowrap;font-size:12px;color:#707884;" title="Forecast high/low">☁&thinsp;72°</span> <span style="font-size:12px;color:#707884;"><span style="white-space:nowrap;">🌊 1 ft</span> &middot; <span style="white-space:nowrap;">💨 NNW 10 kt</span> &middot; <span style="white-space:nowrap;">🚢 18.8 kn</span></span></td><td style="padding:7px 8px;vertical-align:top;">Civitavecchia <span style="white-space:nowrap;font-size:12px;color:#707884;" title="Forecast high/low">☁&thinsp;73°/62°</span> <span style="font-size:13px;color:#707884;">(10/16 9pm)</span></td></tr>
 <tr><td colspan="4" style="padding:14px 4px 4px 4px;border-bottom:1px solid #295aa0;font-family:Georgia, 'Times New Roman', Times, serif;font-style:italic;font-weight:bold;font-size:18px;line-height:22px;color:#295aa0;">northern europe</td></tr>
-<tr bgcolor="#eef0f3" style="background-color:#eef0f3;"><td width="18" style="padding:7px 0 7px 8px;vertical-align:top;width:18px;color:#1a9a9a;font-size:18px;">&nbsp;</td><td style="padding:7px 8px;vertical-align:top;"><b style="color:#1d3a6b;">Sky</b></td><td style="padding:7px 8px;vertical-align:top;">Kristiansand <span style="white-space:nowrap;font-size:12px;color:#707884;" title="Forecast high/low">🌙&thinsp;46°</span> <span style="font-size:13px;color:#707884;">(8:30am)</span></td><td style="padding:7px 8px;vertical-align:top;">Oslo <span style="white-space:nowrap;font-size:12px;color:#707884;" title="Forecast high/low">⛅&thinsp;53°/42°</span> <span style="font-size:13px;color:#707884;">(~10/16)</span></td></tr>
+<tr bgcolor="#eef0f3" style="background-color:#eef0f3;"><td width="18" style="padding:7px 0 7px 8px;vertical-align:top;width:18px;color:#1a9a9a;font-size:18px;">&nbsp;</td><td style="padding:7px 8px;vertical-align:top;"><b style="color:#1d3a6b;">Sky</b></td><td style="padding:7px 8px;vertical-align:top;">At Sea <span style="white-space:nowrap;font-size:12px;color:#707884;" title="Forecast high/low">🌙&thinsp;53°</span> <span style="font-size:12px;color:#707884;"><span style="white-space:nowrap;">🌊 2 ft</span> &middot; <span style="white-space:nowrap;">💨 N 16 kt</span> &middot; <span style="white-space:nowrap;">🚢 11.8 kn</span></span></td><td style="padding:7px 8px;vertical-align:top;">Oslo <span style="white-space:nowrap;font-size:12px;color:#707884;" title="Forecast high/low">⛅&thinsp;53°/42°</span> <span style="font-size:13px;color:#707884;">(~10/16)</span></td></tr>
 <tr><td colspan="4" style="padding:14px 4px 4px 4px;border-bottom:1px solid #295aa0;font-family:Georgia, 'Times New Roman', Times, serif;font-style:italic;font-weight:bold;font-size:18px;line-height:22px;color:#295aa0;">tahiti &amp; south pacific</td></tr>
-<tr bgcolor="#eef0f3" style="background-color:#eef0f3;"><td width="18" style="padding:7px 0 7px 8px;vertical-align:top;width:18px;color:#1a9a9a;font-size:18px;">&nbsp;</td><td style="padding:7px 8px;vertical-align:top;"><b style="color:#1d3a6b;">Grand</b></td><td style="padding:7px 8px;vertical-align:top;">At Sea <span style="white-space:nowrap;font-size:12px;color:#707884;" title="Forecast high/low">🌦&thinsp;82°</span> <span style="font-size:12px;color:#707884;"><span style="white-space:nowrap;">🌊 7 ft</span> &middot; <span style="white-space:nowrap;">💨 E 13 kt</span> &middot; <span style="white-space:nowrap;">🚢 17.8 kn</span></span></td><td style="padding:7px 8px;vertical-align:top;">Apia <span style="white-space:nowrap;font-size:12px;color:#707884;" title="Forecast high/low">🌦&thinsp;82°/72°</span> <span style="font-size:13px;color:#707884;">(10/20 12pm)</span></td></tr>
+<tr bgcolor="#eef0f3" style="background-color:#eef0f3;"><td width="18" style="padding:7px 0 7px 8px;vertical-align:top;width:18px;color:#1a9a9a;font-size:18px;">&nbsp;</td><td style="padding:7px 8px;vertical-align:top;"><b style="color:#1d3a6b;">Grand</b></td><td style="padding:7px 8px;vertical-align:top;">At Sea <span style="white-space:nowrap;font-size:12px;color:#707884;" title="Forecast high/low">🌦&thinsp;82°</span> <span style="font-size:12px;color:#707884;"><span style="white-space:nowrap;">🌊 6 ft</span> &middot; <span style="white-space:nowrap;">💨 E 11 kt</span> &middot; <span style="white-space:nowrap;">🚢 17.8 kn</span></span></td><td style="padding:7px 8px;vertical-align:top;">Apia <span style="white-space:nowrap;font-size:12px;color:#707884;" title="Forecast high/low">🌦&thinsp;82°/72°</span> <span style="font-size:13px;color:#707884;">(10/20 12pm)</span></td></tr>
 </table>
 <div style="font-family:Helvetica, Arial, sans-serif;font-size:13px;line-height:18px;color:#707884;padding:8px 4px 0 4px;"><span style="color:#d6a214;">&#9733;</span> = maiden call (a ship’s first-ever visit to that port)<br><span style="display:inline-block;width:22px;height:12px;background-color:#f6e7b0;border-left:4px solid #be8c14;vertical-align:middle;font-size:0;line-height:0;">&nbsp;</span> Gold row = in port on its maiden call</div>
 </td></tr>
 <tr><td align="center" style="padding:22px 20px 6px 20px;font-family:Georgia, 'Times New Roman', Times, serif;font-style:italic;font-size:17px;line-height:24px;color:#295aa0;text-align:center;">“Bon voyage!”</td></tr>
-<tr><td align="center" style="padding:2px 20px 24px 20px;font-family:Helvetica, Arial, sans-serif;font-size:12px;line-height:18px;color:#707884;text-align:center;">Fleet positions from Pavlus AIS plus published schedules. Dates/times PT; ~ = AIS estimate.<br>Page updated 10/16/26 4:01pm PT after each fleet check-in.</td></tr>
+<tr><td align="center" style="padding:2px 20px 24px 20px;font-family:Helvetica, Arial, sans-serif;font-size:12px;line-height:18px;color:#707884;text-align:center;">Fleet positions from Pavlus AIS plus published schedules. Dates/times PT; ~ = AIS estimate.<br>Page updated 10/16/26 5:01pm PT after each fleet check-in.</td></tr>
 </table></td></tr></table></body></html>
